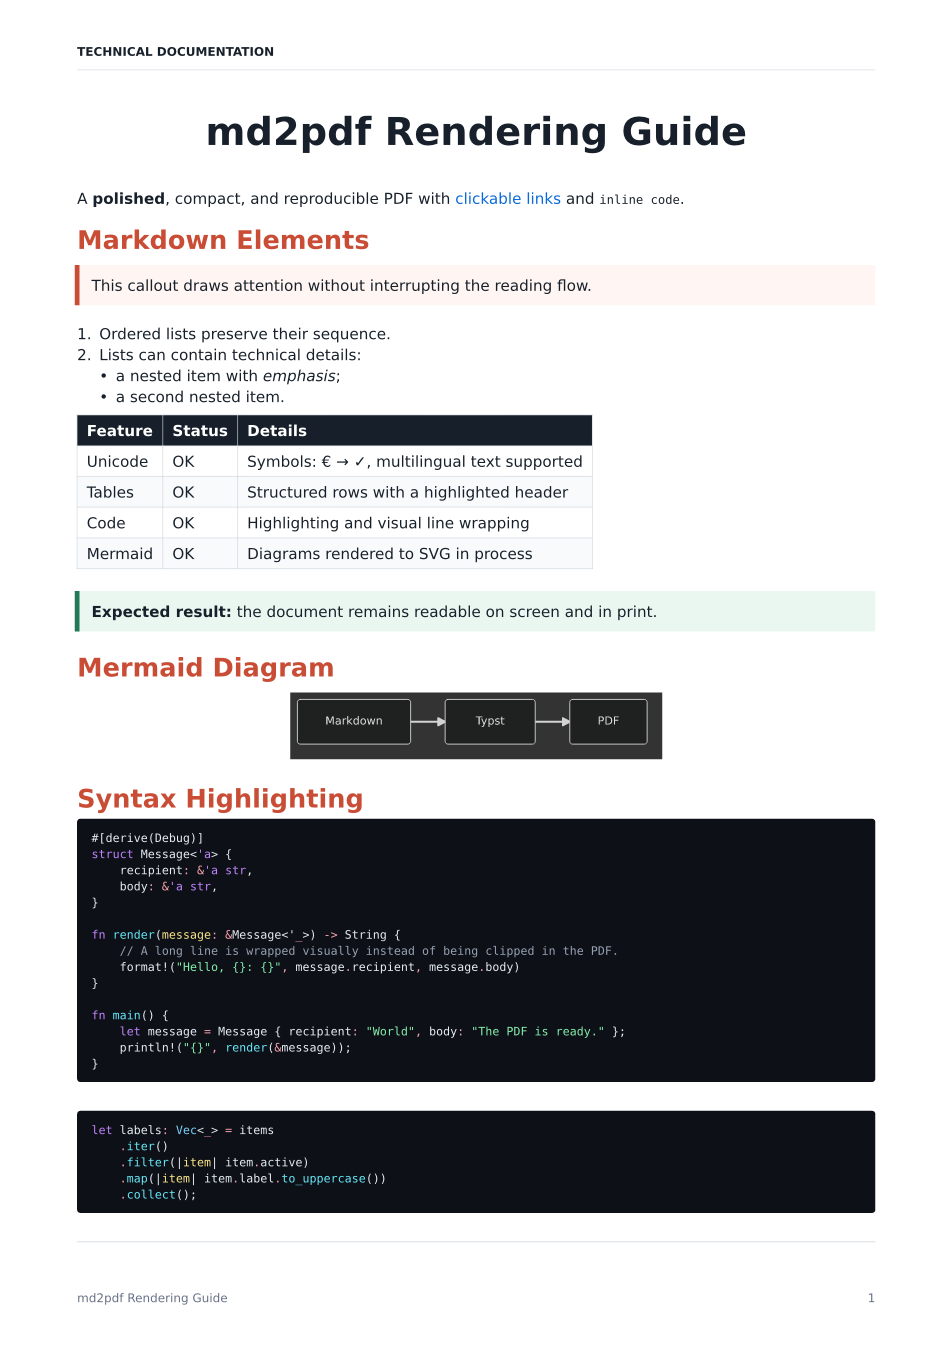
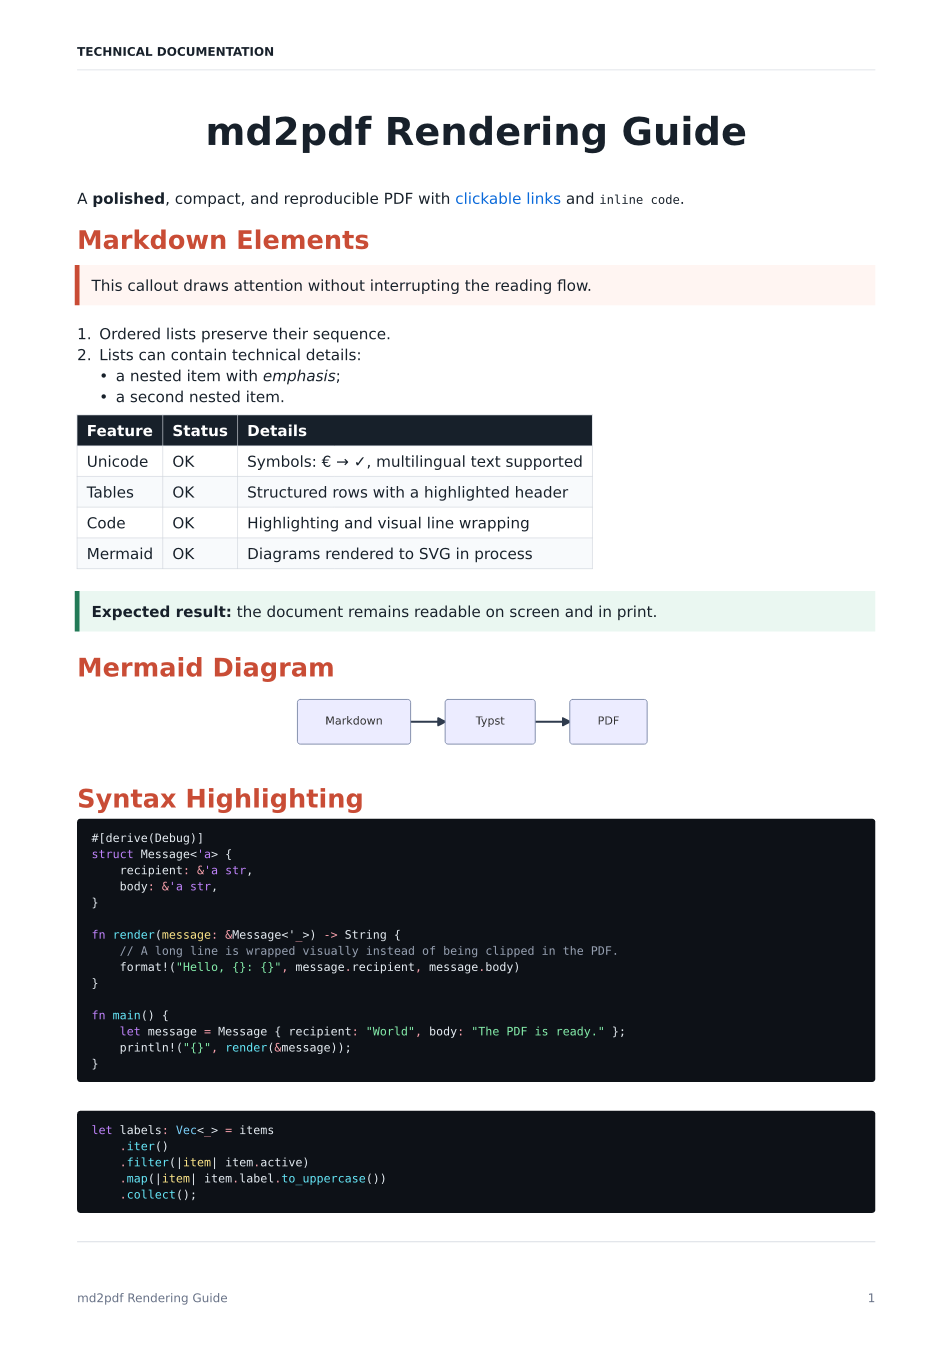
Use light Mermaid palette on PDF pages
Keep diagrams on Mermaid's classic light theme so they match the light page
background instead of following the dark code-block theme. Refresh the README
preview.

Changed region(s): [[0.3046, 0.4989, 0.7006, 0.5612]]

diff --git a/src/markdown.rs b/src/markdown.rs
@@ -520,10 +520,9 @@ fn mermaid_block(
     index: usize,
 ) -> Result<(String, (String, Vec<u8>))> {
     let mut render_options = RenderOptions {
-        theme: match options.code_theme {
-            CodeTheme::Dark => Theme::dark(),
-            CodeTheme::Light => Theme::mermaid_default(),
-        },
+        // PDF pages are light; keep diagrams on the classic Mermaid palette
+        // instead of following the dark code-block theme.
+        theme: Theme::mermaid_default(),
         ..RenderOptions::default()
     };
     // Typst resolves a single SVG font family; use the embedded DejaVu face.

diff --git a/docs/markdown-support.md b/docs/markdown-support.md
@@ -36,11 +36,11 @@ examples.
 ## Mermaid diagrams
 
 Fenced blocks tagged `mermaid` or `mmd` are rendered to SVG with a pure-Rust
-Mermaid engine and embedded as centered images. The diagram theme follows
-`--code-theme` (`dark` or light). Labels use the embedded DejaVu Sans font.
-Simple diagrams stay compact; large diagrams may use more of the page so text
-remains readable. Invalid Mermaid source fails PDF generation with a clear
-error. No browser or Node.js runtime is required.
+Mermaid engine and embedded as centered images. Diagrams use Mermaid's classic
+light palette so they match the light PDF page. Labels use the embedded DejaVu
+Sans font. Simple diagrams stay compact; large diagrams may use more of the page
+so text remains readable. Invalid Mermaid source fails PDF generation with a
+clear error. No browser or Node.js runtime is required.
 
 Supported diagram families include flowcharts, sequence, class, state, ER, pie,
 XY, quadrant, gantt, timeline, journey, mindmap, and git graphs, subject to the

diff --git a/README.md b/README.md
@@ -141,9 +141,9 @@ examples, aliases, fallback behavior, and implementation details.
 ### Mermaid diagrams
 
 Fenced `mermaid` (or `mmd`) blocks are rendered to SVG in process and embedded
-as images. The diagram palette follows `--code-theme`. Simple diagrams stay
-compact; larger ones scale up for readability. Invalid Mermaid source stops PDF
-generation with an error.
+as images. Diagrams use Mermaid's classic light palette to match the PDF page.
+Simple diagrams stay compact; larger ones scale up for readability. Invalid
+Mermaid source stops PDF generation with an error.
 
 ````markdown
 ```mermaid

diff --git a/CHANGELOG.md b/CHANGELOG.md
@@ -17,7 +17,9 @@ All notable changes are documented in this file. The format follows
 ### Fixed
 
 - fixed Mermaid SVG cropping so flowchart diamonds and circular nodes are not
-  clipped.
+  clipped;
+- rendered Mermaid diagrams with the classic light palette instead of following
+  the dark code-block theme.
 
 ## [3.2.0] - 2026-07-28
 
